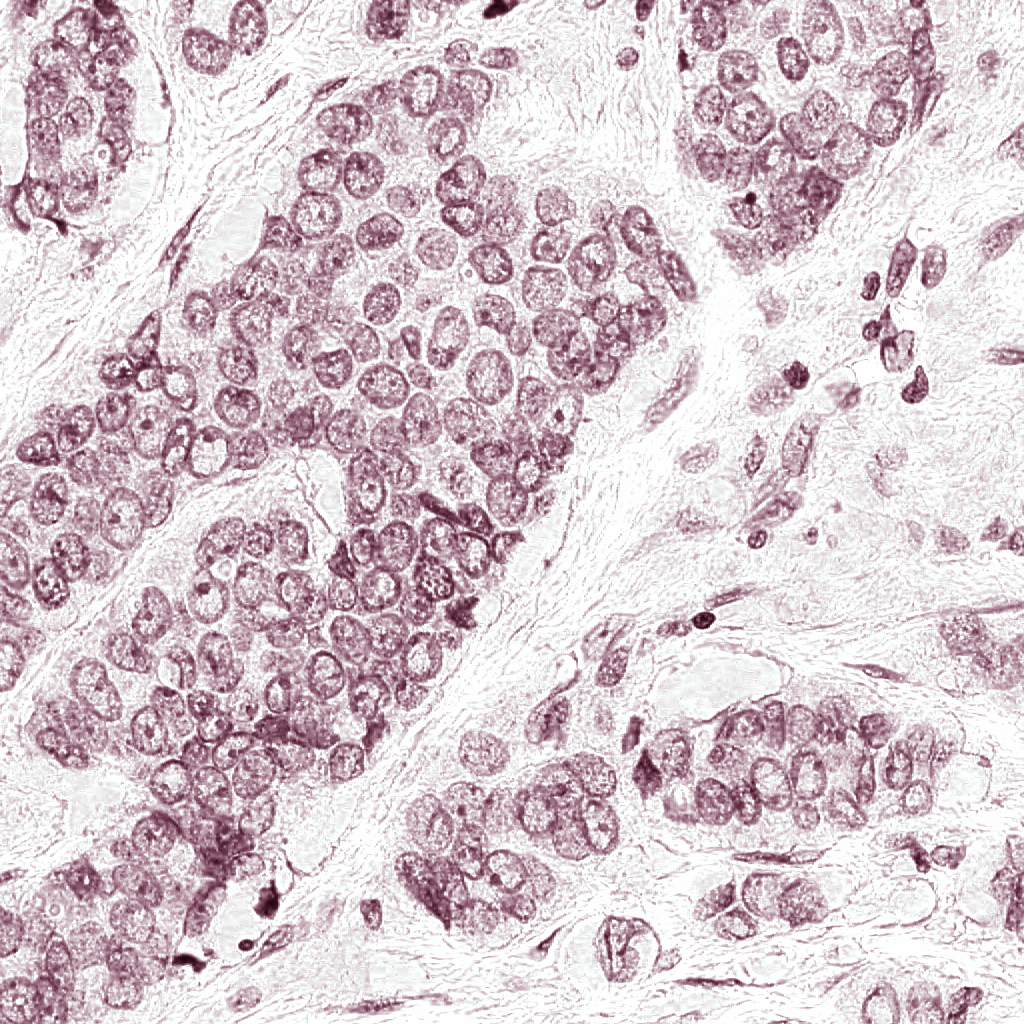
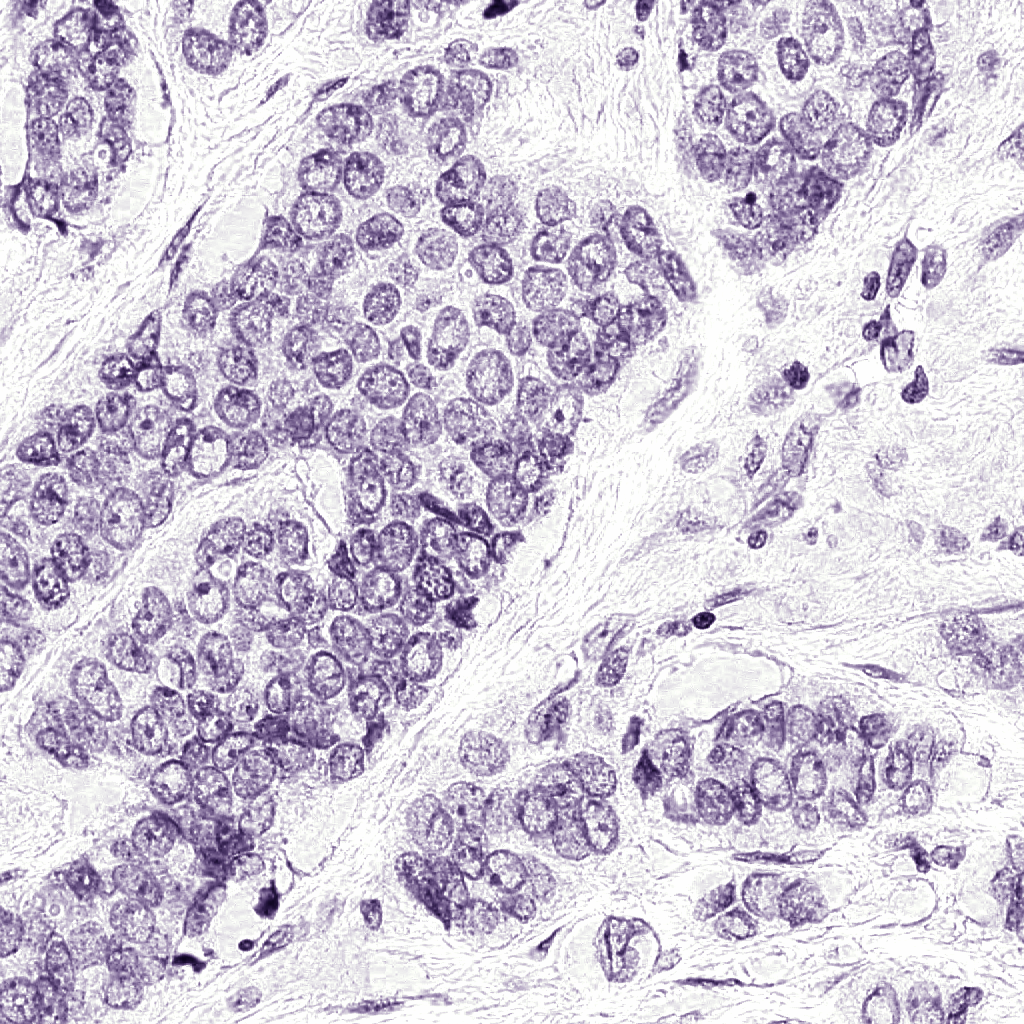
fixed OpenCV channels in saved images

diff --git a/normalizeStaining.py b/normalizeStaining.py
@@ -127,8 +127,11 @@ def normalizeStaining(imgPath, saveDir='normalized/', unmixStains=False, Io=240,
     E = np.reshape(E.T, (h, w, 3)).astype(np.uint8)
     
     if saveDir is not None:
+        Inorm = cv2.cvtColor(Inorm, cv2.COLOR_BGR2RGB)
         cv2.imwrite(fn+'.png', Inorm)
         if unmixStains:
+            H = cv2.cvtColor(H, cv2.COLOR_BGR2RGB)
+            E = cv2.cvtColor(E, cv2.COLOR_BGR2RGB)
             cv2.imwrite(fn+'_H.png', H)
             cv2.imwrite(fn+'_E.png', E)
         return
